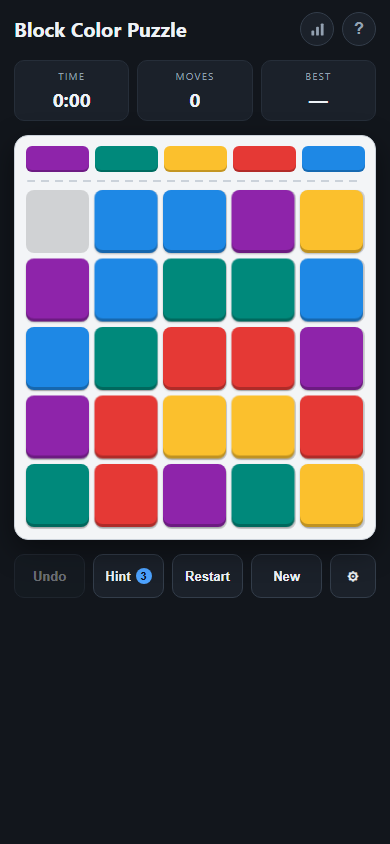
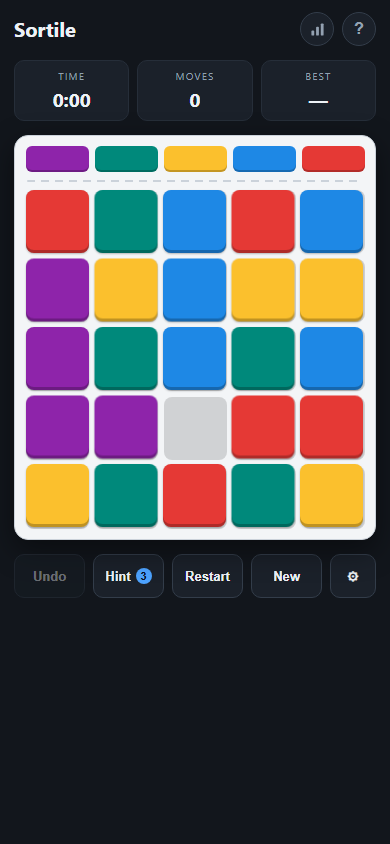
Rename the app to Sortile
The Store name "Sortile - Colour Block Puzzle" is reserved, so the app has to
match it before packaging - otherwise the listing and the installed app carry
different names.

manifest name is the full reserved title; short_name is "Sortile", which is
what sits under a home-screen icon. The in-app h1 drops to "Sortile" too: it
shares the topbar with two icon buttons, so 7 characters instead of 18 is a
real gain on a narrow phone.

The daily share text was only asserted as length > 0, which would have passed
with a stale name, so it now pins the whole four-line shape. Verified it fails
on the old name before keeping it.

Poster and screenshots regenerated. Cache bumped to v17.

Changed region(s): [[0.0615, 0.154, 0.9538, 0.6469], [0.0308, 0.0308, 0.4923, 0.0616]]

diff --git a/index.html b/index.html
@@ -5,7 +5,7 @@
 <meta name="viewport" content="width=device-width, initial-scale=1, viewport-fit=cover, user-scalable=no">
 <meta name="theme-color" content="#12161c">
 <meta name="description" content="Slide the coloured blocks so every column matches its guide colour.">
-<title>Block Color Puzzle</title>
+<title>Sortile — Colour Block Puzzle</title>
 <link rel="manifest" href="manifest.webmanifest">
 <link rel="icon" href="icons/icon-192.png">
 <link rel="apple-touch-icon" href="icons/icon-192.png">
@@ -16,7 +16,7 @@
 <div class="app">
 
   <header class="topbar">
-    <h1>Block Color Puzzle</h1>
+    <h1>Sortile</h1>
     <div class="topbar-actions">
       <button id="btn-stats" class="icon-btn" type="button" aria-label="Statistics"
               aria-haspopup="dialog">

diff --git a/game.js b/game.js
@@ -1,6 +1,6 @@
 /*
- * Block Color Puzzle
- * ------------------
+ * Sortile
+ * -------
  * Board: COLS columns x ROWS playable rows, plus a locked guide row on top.
  * The guide row shows the target colour for each column.
  * One cell is empty. Tap a block sharing a row/column with the gap to slide it in.
@@ -980,7 +980,7 @@
     // The guide order is the day's fingerprint, so the strip differs daily.
     const strip = state.guide.map(i => SHARE_EMOJI[i]).join('');
     return [
-      'Block Color Puzzle \u2014 ' + state.dailyKey,
+      'Sortile \u2014 ' + state.dailyKey,
       strip,
       formatTime(result.ms) + ' \u00b7 ' + result.moves + ' moves \u00b7 streak ' + streak,
       SITE_URL

diff --git a/solver.js b/solver.js
@@ -1,5 +1,5 @@
 /*
- * Block Color Puzzle - solver
+ * Sortile - solver
  * ---------------------------
  * The board only cares about colour, not identity: a column is correct when
  * every block in it matches the guide colour above it. Because the guide is a

diff --git a/fx.js b/fx.js
@@ -1,5 +1,5 @@
 /*
- * Block Color Puzzle - feel layer
+ * Sortile - feel layer
  * -------------------------------
  * Sound, haptics and confetti. No audio or image assets: every sound is
  * synthesised with WebAudio and the confetti is drawn on a canvas.

diff --git a/tools/poster.html b/tools/poster.html
@@ -96,7 +96,7 @@
   </div>
 
   <div class="wordmark">
-    <h1>Block Color Puzzle</h1>
+    <h1>Sortile</h1>
     <p>Slide the blocks until every column<br>matches its guide colour.</p>
   </div>
 </body>

diff --git a/sw.js b/sw.js
@@ -1,4 +1,4 @@
-const CACHE = 'bcp-v16';
+const CACHE = 'bcp-v17';
 
 const ASSETS = [
   './',

diff --git a/README.md b/README.md
@@ -1,6 +1,8 @@
-# Block Color Puzzle
+# Sortile
 
-A sliding block puzzle inspired by the homemade board game in `../board-game-image.jpg`.
+Colour block puzzle — a sliding block game inspired by the homemade board in
+`../board-game-image.jpg`. Published to the Microsoft Store as
+*Sortile — Colour Block Puzzle*.
 
 Zero dependencies — plain HTML, CSS and JavaScript. Runs offline and installs to a phone
 home screen as a PWA.
@@ -36,7 +38,7 @@ Solving it banks a result and extends your streak. Miss a day and the streak
 resets, but your best streak is kept. **Share** copies a spoiler-free summary:
 
 ```
-Block Color Puzzle — 2026-08-04
+Sortile — 2026-08-04
 🟩🟥🟦🟪🟨
 1:24 · 37 moves · streak 5
 ```

diff --git a/AGENTS.md b/AGENTS.md
@@ -124,6 +124,11 @@ The symptom was visual, so the assertion had to be visual: screenshot the footer
 three scroll positions and require the PNG buffers to be byte-identical. No image
 decoding, no extra dependency. Reintroducing the bug turns it red.
 
+Because it compares raw pixels, this is the one test sensitive to machine load — it has
+gone red once under a concurrent `npx` call and once during a full parallel run, then
+passed on every isolated re-run. If it fails alone, believe it. If it fails only inside
+`test:all`, re-run `npm run test:layout` before touching any CSS.
+
 ## CSS traps
 
 - **`prefers-reduced-motion` blocks are opt-in lists, not blanket rules.** There are two
